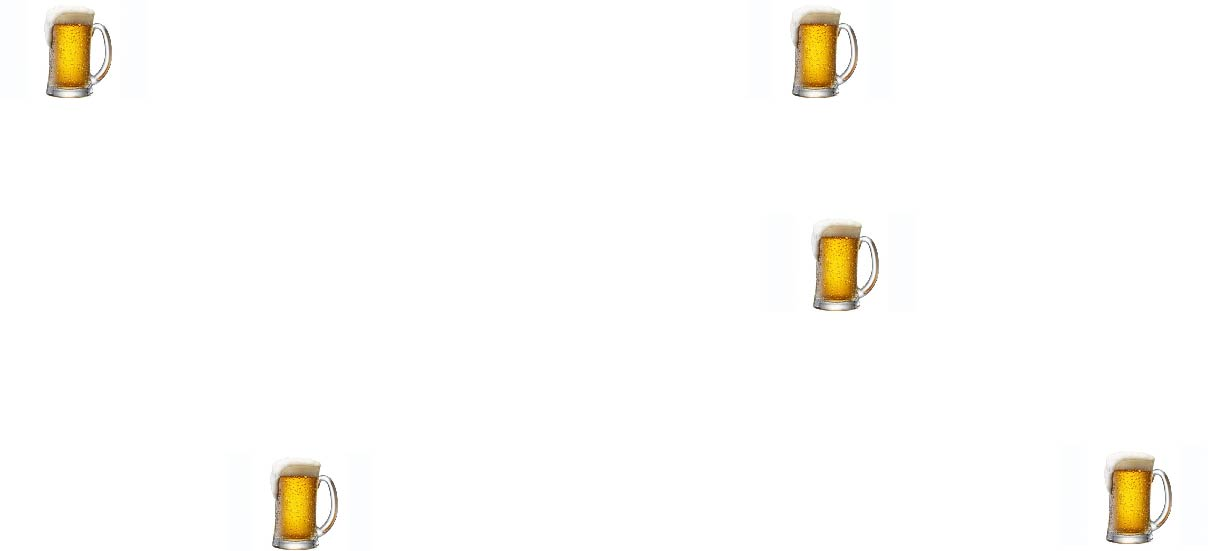
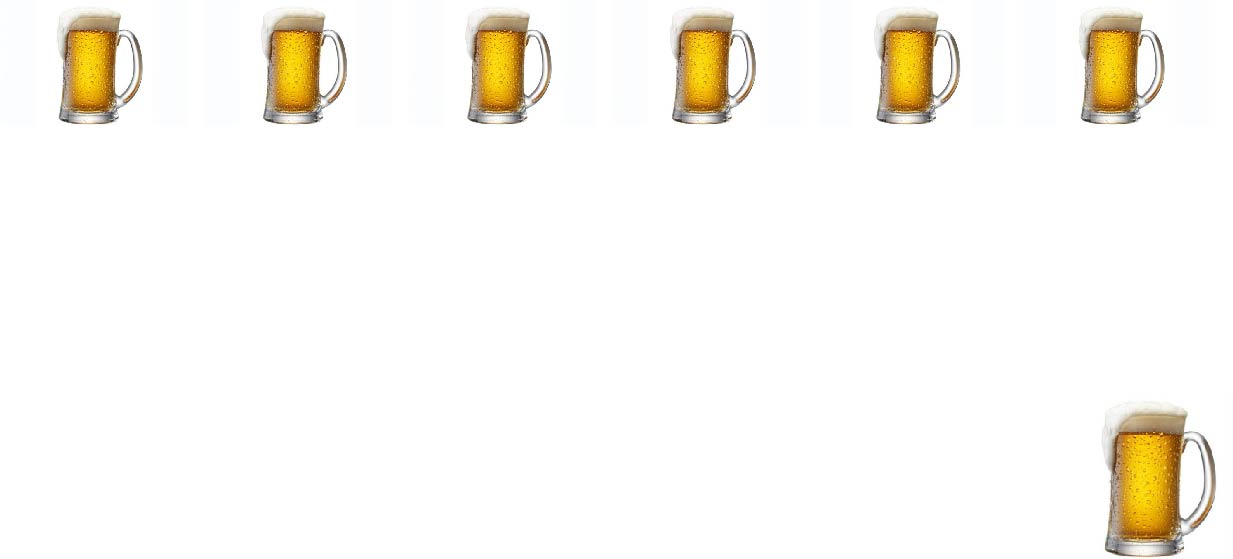
fix background and random

diff --git a/src/components/questionCard.js b/src/components/questionCard.js
@@ -205,8 +205,9 @@ class QuestionCard extends Component {
       // const form = event.target;
       // const data = new FormData(form);
       const questions_solvers = this.props.questions_solvers
+      console.log("qs", questions_solvers)
       const question_solver = ({
-        "id": this.getId(questions_solvers),
+        "id": this.getId(this.props.questions_solvers),
         "questions_id": this.props.question.id,
         "solvers_id": parseInt(this.state.selectedValue)
       })
@@ -215,6 +216,7 @@ class QuestionCard extends Component {
 
     getId = (array) => {
       let max = 0;
+      console.log(array)
       return array.forEach(item => {
         if (item.id > max) {
           max = item.id
@@ -225,11 +227,11 @@ class QuestionCard extends Component {
   render() {
 
     let solvedByName = this.state.solvedBy.map(person => {
-      return <span className='solvedbyitem'><br/>{person.solver_name}</span>
+      return <span key={person.solver_name} className='solvedbyitem'><br/>{person.solver_name}</span>
     })
 
     let solvedById = this.state.solvedBy.map(person => {
-      return <span className='solvedbyitem'><br/>{person.id}</span>
+      return <span key={person.id} className='solvedbyitem'><br/>{person.id}</span>
     })
 
 
@@ -241,9 +243,9 @@ class QuestionCard extends Component {
           <div className="card-body">
             <div className='cardtext'>
               <div id='questionText'><strong>Question:</strong><br></br>{this.props.question.question.split("\n").map((i, index)=> {
-            return <div key={i.length + index}>{i}</div>;})}</div>
+            return <div key={Math.random()}>{i}</div>;})}</div>
               <div id='solutionText' onClick={this.toggleFunction}><strong>Solution:</strong> <span className='clicktext'>Click to show.</span><br></br><span className={this.state.toggleClass?'hidden':''}>{this.props.question.solution.split("\n").map((i, index) => {
-            return <div key={i.length + index}>{i}</div>;})}</span></div>
+            return <div key={Math.random()}>{i}</div>;})}</span></div>
               <p id='submitText'><strong>Submitted by:</strong> {this.props.question.submitter}</p>
               <p id='solverText'><strong>Solved by:</strong>{solvedByName}</p>
             </div>

diff --git a/src/components/randomq.js b/src/components/randomq.js
@@ -17,6 +17,13 @@ const RandomQ = (props) => {
   const question = questions[rindex]
   console.log('finalSingleQ', question)
 
-  return <QuestionCard key={question.id} question={question} solvers={props.solvers} postName={props.postName}/>
+  return <QuestionCard key={question.id + question.name}
+    question={question}
+    solvers={props.solvers}
+    questions_solvers={props.questions_solvers}
+    onSolverSubmit={props.onSolverSubmit}
+    postName={props.postName}
+    addSolvedBy={props.addSolvedBy}
+    onSubmitUpdate={props.onSubmitUpdate}/>
 }
 export default RandomQ;

diff --git a/src/App.js b/src/App.js
@@ -192,7 +192,7 @@ class App extends Component {
             </Link>
             <div className='parallax'>
               <div>
-                <Route path="/browselist" render={()=><BrowseList key={this.state.solvers.length} solvers={this.state.solvers}
+                <Route path="/browselist" render={()=><BrowseList key="questionslist" solvers={this.state.solvers}
                   questions={this.state.questions}
                   onQuestionSolverSubmit={this.onQuestionSolverSubmit}
                   postName={this.postName}

diff --git a/src/App.css b/src/App.css
@@ -228,8 +228,8 @@ select {
   background-image: url("./components/beer1_10.jpg");
   height: 5000px;
   background-attachment: fixed;
-  background-position: -2rem -.5rem;
-  background-repeat: repeat-y;
+  background-position: -6rem -1rem;
+  background-repeat: no-repeat;
   background-size: auto;
   overflow: hidden,
   padd
